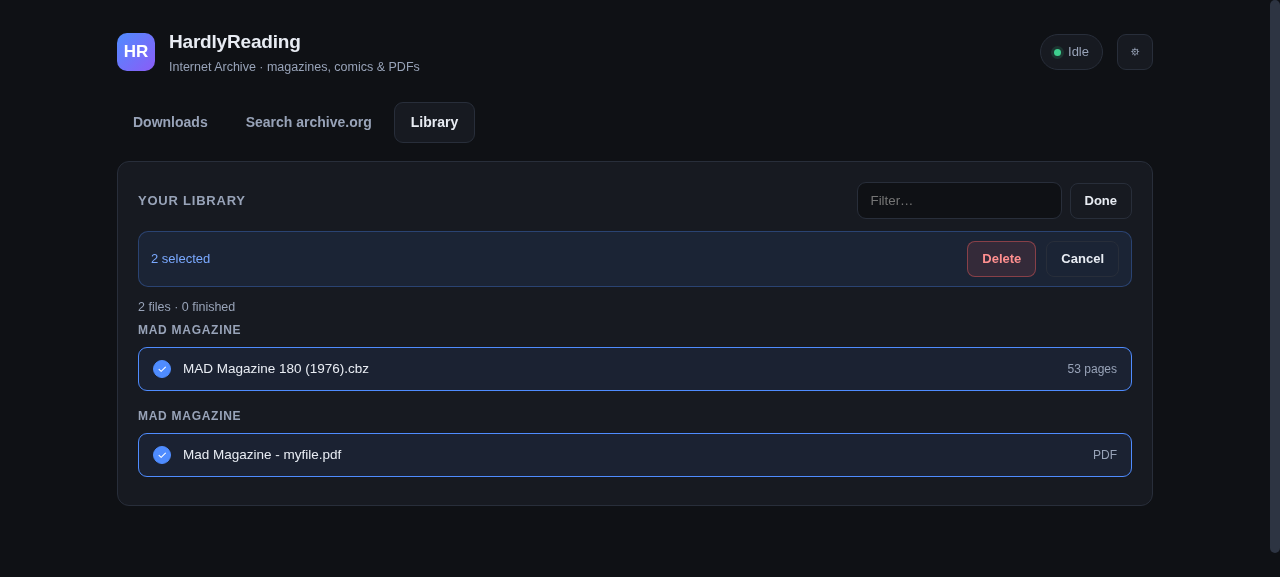
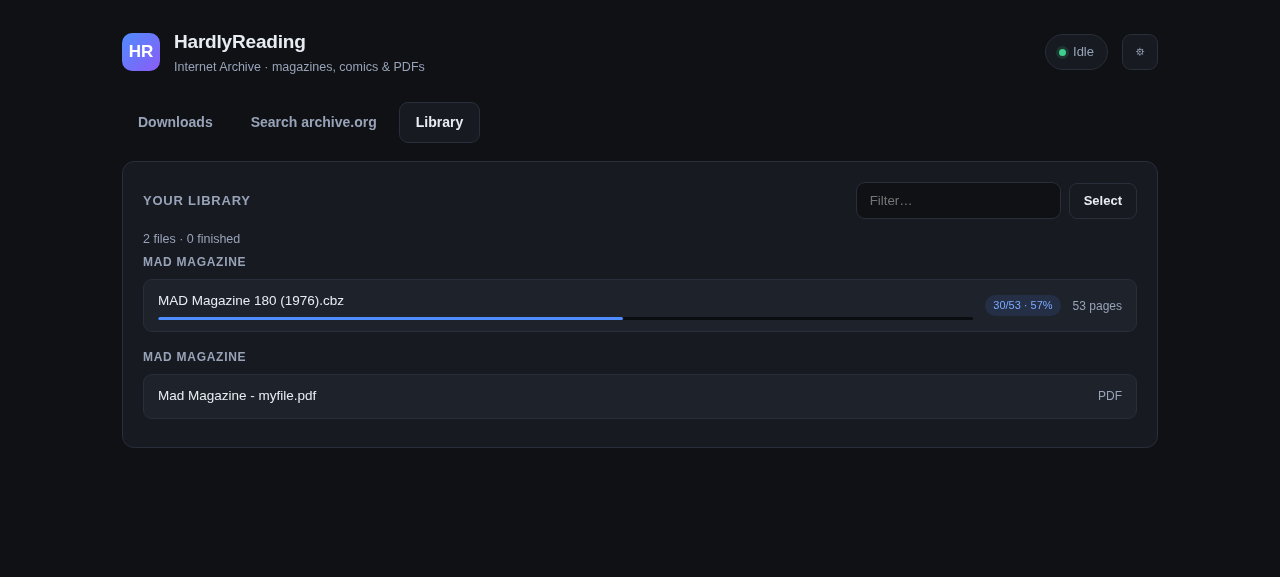
Reading progress in the library, clear history, no dead Download button (v1.4.0)
- Library rows show a progress bar and page/total · percent once you have
  started reading, and a finished row is dimmed with a green bar
- Settings gains 'Clear reading history', which wipes the saved page
  positions and leaves every file alone
- A job whose every item is already on disk now finishes as done with
  'already have all N item(s)' instead of sitting in planned with a Download
  button that would fetch nothing; the card also hides Download when there is
  nothing left to fetch (covers stale state from older versions)

diff --git a/index.html b/index.html
@@ -268,8 +268,15 @@
     background:var(--panel2);border:1px solid var(--line);border-radius:9px;
     margin-bottom:8px;cursor:pointer}
   .rfile:hover{border-color:var(--accent)}
-  .rfile .nm{flex:1;font-size:13.5px;overflow:hidden;
+  .rfile .nm{display:block;font-size:13.5px;overflow:hidden;
     text-overflow:ellipsis;white-space:nowrap}
+  .rlinfo{flex:1;min-width:0}
+  .rltrack{height:3px;background:#0b0d11;border-radius:2px;margin-top:6px;overflow:hidden}
+  .rltrack i{display:block;height:100%;background:var(--accent);border-radius:2px;
+    transition:width .3s ease}
+  .rltrack i.fin{background:var(--ok)}
+  .rfile.done{opacity:.62}
+  .rfile.done:hover{opacity:1}
   .rfile .pg{font-size:12px;color:var(--dim);white-space:nowrap}
   .rfile.dis{opacity:.45;cursor:default}
   .rfile.dis:hover{border-color:var(--line)}
@@ -316,6 +323,10 @@
           <span><b>Show "reader" label</b>
             <em>Small brand mark in the reader header</em></span>
         </label>
+        <div class="row" style="margin:2px 0 4px">
+          <button class="btn ghost sm" id="clearHistory">Clear reading history</button>
+          <span class="hint" style="margin:0">Forgets every saved position. Files stay.</span>
+        </div>
 
         <div class="sgroup">Downloads</div>
         <label class="rowchk">
@@ -520,11 +531,18 @@ function renderJobs(st){
       ? `<div class="scoped">${esc(j.scoped_query)}</div>` : "";
     let acts = "";
     if(j.status === "planned"){
-      // Refuse to start a grab that cannot fit, rather than filling the disk
-      // halfway through and leaving a broken library behind.
-      acts = `<button class="btn sm" data-confirm="${esc(j.id)}"
-                ${j.fits === false ? "disabled" : ""}>Download</button>`
-           + `<button class="btn ghost sm" data-cancel="${esc(j.id)}">Cancel</button>`;
+      // Guard against stale state from before the engine stopped planning
+      // empty jobs: nothing to fetch means no Download button.
+      const ready = (j.n_items || 0) - (j.skipped || 0);
+      if(ready <= 0){
+        acts = `<span class="hint" style="margin:0">Nothing to download</span>`;
+      } else {
+        // Refuse to start a grab that cannot fit, rather than filling the disk
+        // halfway through and leaving a broken library behind.
+        acts = `<button class="btn sm" data-confirm="${esc(j.id)}"
+                  ${j.fits === false ? "disabled" : ""}>Download</button>`
+             + `<button class="btn ghost sm" data-cancel="${esc(j.id)}">Cancel</button>`;
+      }
     } else if(j.status === "queued" || j.status === "resolving"){
       acts = `<button class="btn ghost sm" data-cancel="${esc(j.id)}">Cancel</button>`;
     } else if(j.status === "done"){
@@ -1033,17 +1051,25 @@ function renderLibrary(){
   $("libList").innerHTML = Object.keys(groups).sort().map(se => `
     <div class="libgroup">${esc(se)}</div>
     ${groups[se].map(it => {
-      const pct = it.pages ? Math.round(((it.progress||0) / it.pages) * 100) : 0;
+      const pct = it.pages ? Math.min(100, Math.round(((it.progress||0) / it.pages) * 100)) : 0;
       const badge = it.finished
         ? '<span class="libfin">finished</span>'
-        : (it.progress ? `<span class="libpg">${it.progress}/${it.pages}</span>` : "");
+        : (it.progress ? `<span class="libpg">${it.progress}/${it.pages} · ${pct}%</span>` : "");
+      // Progress bar only once you've started reading, so unread rows stay quiet.
+      const bar = (it.progress && it.pages)
+        ? `<div class="rltrack"><i class="${it.finished?"fin":""}" style="width:${pct}%"></i></div>`
+        : "";
       const on = libSelected.has(it.key) ? " sel" : "";
       // Deleting is a deliberate act: only offered once Select is on.
       const tick = libSelectMode ? `<span class="libtick${on ? " on" : ""}">✓</span>` : "";
-      return `<div class="rfile${it.readable?"":" dis"}${on}" data-key="${esc(it.key)}"
+      const fin = it.finished ? " done" : "";
+      return `<div class="rfile${it.readable?"":" dis"}${on}${fin}" data-key="${esc(it.key)}"
                    data-job="${esc(it.job)}" data-name="${esc(it.name)}">
         ${tick}
-        <span class="nm">${esc(it.name)}</span>
+        <div class="rlinfo">
+          <span class="nm">${esc(it.name)}</span>
+          ${bar}
+        </div>
         ${badge}
         <span class="pg">${it.kind === "cbz" ? it.pages + " pages" : "PDF"}</span>
       </div>`;
@@ -1350,6 +1376,22 @@ function openSettings(){
 function closeSettings(){ $("settingsModal").hidden = true; }
 
 $("gearBtn").onclick = openSettings;
+$("clearHistory").onclick = async ()=>{
+  if(!confirm("Forget every saved reading position?\n\nDownloaded files are not touched — only the page you were on.")) return;
+  const btn = $("clearHistory");
+  btn.disabled = true; btn.textContent = "Clearing…";
+  try{
+    const r = await api("/api/clear-history", {method:"POST",
+      headers:{"Content-Type":"application/json"}, body:"{}"});
+    toast(r.cleared ? `Cleared ${r.cleared} reading position${r.cleared===1?"":"s"}`
+                    : "Nothing to clear");
+    if($("view-library").style.display !== "none") loadLibrary();
+  }catch(e){
+    toast("Could not clear: " + e.message);
+  }finally{
+    btn.disabled = false; btn.textContent = "Clear reading history";
+  }
+};
 $("settingsClose").onclick = closeSettings;
 $("settingsDone").onclick = closeSettings;
 $("settingsModal").addEventListener("click", (e)=>{

diff --git a/engine.py b/engine.py
@@ -98,7 +98,7 @@ def http_json(url: str, timeout: int = 60):
     """GET a URL and return parsed JSON. No retry here — callers that can
     recover (the resolver, the per-item probe) do their own attempts."""
 
-    req = urllib.request.Request(url, headers={"User-Agent": "HardlyReading/1.3.0"})
+    req = urllib.request.Request(url, headers={"User-Agent": "HardlyReading/1.4.0"})
     with urllib.request.urlopen(req, timeout=timeout) as r:
         return json.load(r)
 
@@ -937,6 +937,19 @@ class Engine:
 
             job.items = ok + skipped
             job.total_bytes = sum(i.get("size", 0) for i in ok)
+
+            # Nothing left to fetch — every entry is already on disk, or none
+            # was downloadable. Offering a Download button for zero files is a
+            # dead end, so finish the job instead of waiting for a confirm.
+            if not ok:
+                job.status = "done"
+                job.message = (f"already have all {len(skipped)} item(s)"
+                               if skipped else "nothing to download")
+                job.updated = time.time()
+                with self.lock:
+                    self.save_state()
+                return
+
             # Known now, not at download time, so the plan screen can show the
             # destination and warn about free space before anything starts.
             job.status = "planned"
@@ -1155,6 +1168,17 @@ class Engine:
                 c.commit()
         except Exception:  # noqa: BLE001
             pass
+
+    def clear_history(self):
+        """Forget every saved reading position. Files on disk are untouched."""
+        c = self._db()
+        if not c:
+            return {"cleared": 0}
+        with self._lock_db:
+            n = c.execute("SELECT COUNT(*) FROM progress").fetchone()[0]
+            c.execute("DELETE FROM progress")
+            c.commit()
+        return {"cleared": n}
 
 
 def _parse_speed(s: str) -> float:

diff --git a/server.py b/server.py
@@ -44,7 +44,7 @@ ENGINE = engine.Engine()
 
 
 class Handler(BaseHTTPRequestHandler):
-    server_version = "HardlyReading/1.3.0"
+    server_version = "HardlyReading/1.4.0"
 
     def log_message(self, fmt, *args):
         pass  # quiet
@@ -368,6 +368,12 @@ class Handler(BaseHTTPRequestHandler):
                 return self._send(200, ENGINE.remove(body.get("id") or ""))
             except Exception as e:  # noqa: BLE001
                 return self._send(400, {"error": str(e)})
+
+        if path == "/api/clear-history":
+            try:
+                return self._send(200, ENGINE.clear_history())
+            except Exception as e:  # noqa: BLE001
+                return self._send(500, {"error": str(e)})
 
         if path == "/api/delete":
             try:

diff --git a/README.md b/README.md
@@ -164,6 +164,11 @@ download from an earlier run, or one you copied in by hand, still appears after
 a restart or after you remove the job that fetched it. Removing a job from the
 queue never hides the file it already downloaded.
 
+Each row shows how far you have read: a progress bar and `page/total · percent`
+once you have started, and a dimmed row with a `finished` badge when you reach
+the end. **Clear reading history** in Settings forgets every saved position —
+files are untouched.
+
 Files land in your downloads folder, under one subfolder per series:
 
 ```
@@ -194,6 +199,7 @@ The gear in the header opens a panel; changes save as you edit and persist in
 | Setting | Default | What it does |
 |---|---|---|
 | Show "reader" label | on | The small label in the reader header. Off gives a clean page. |
+| Clear reading history | — | Forgets every saved page position. Files stay on disk. |
 | Ask before downloading | on | Show the file plan and total size, then wait for you. |
 | Skip files I already have | on | Drop entries whose checksum is already in the folder. |
 | Komga folder naming | on | One folder per series with issue-ordered filenames. Off keeps archive.org's original filenames in a folder named after the link. |
